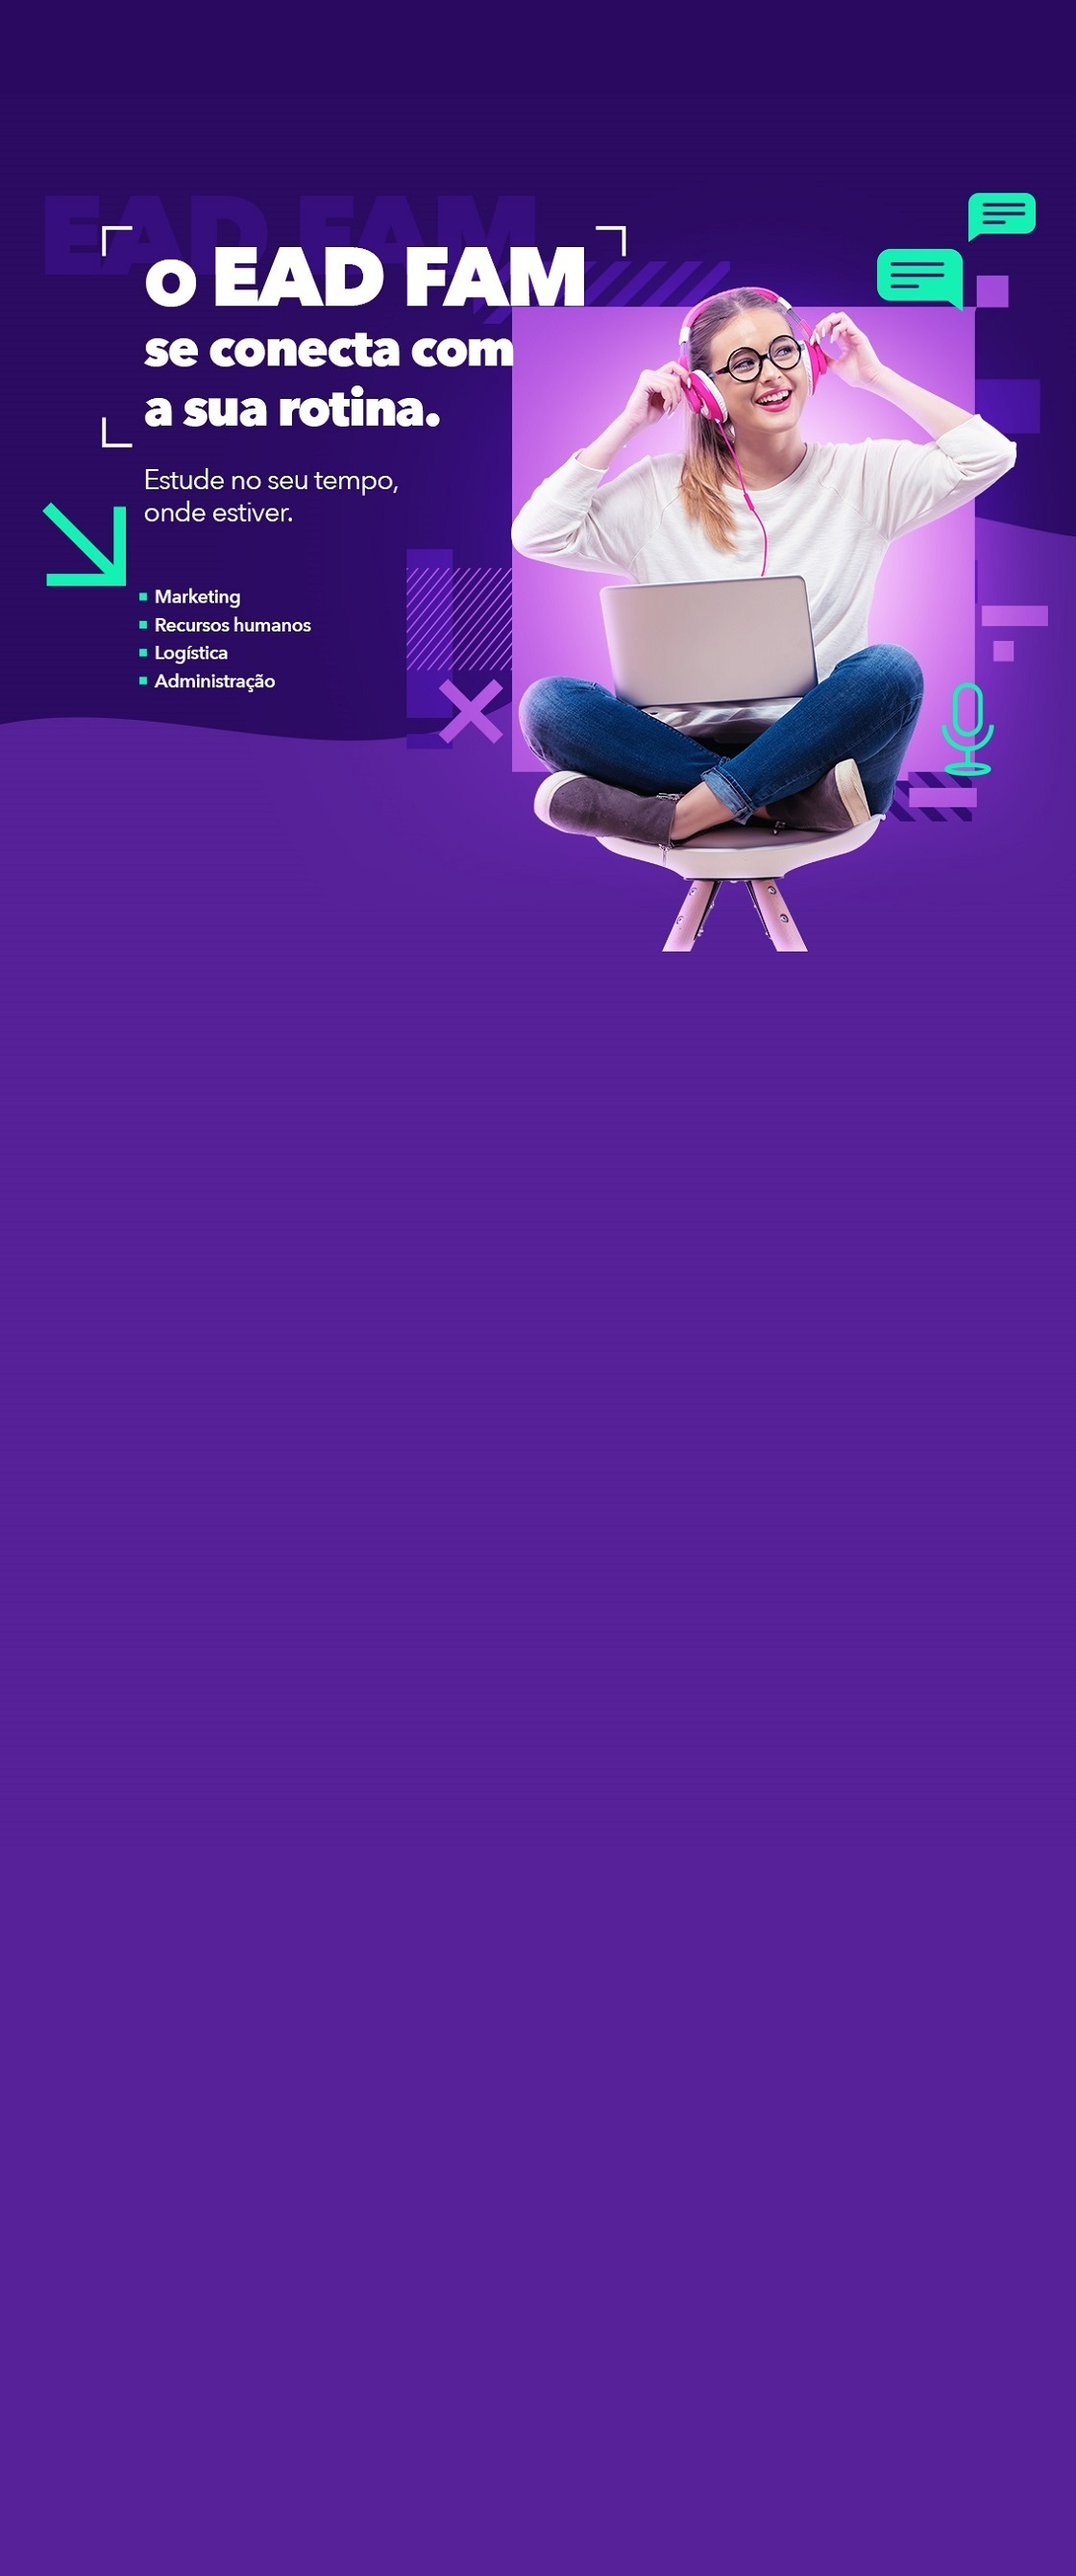
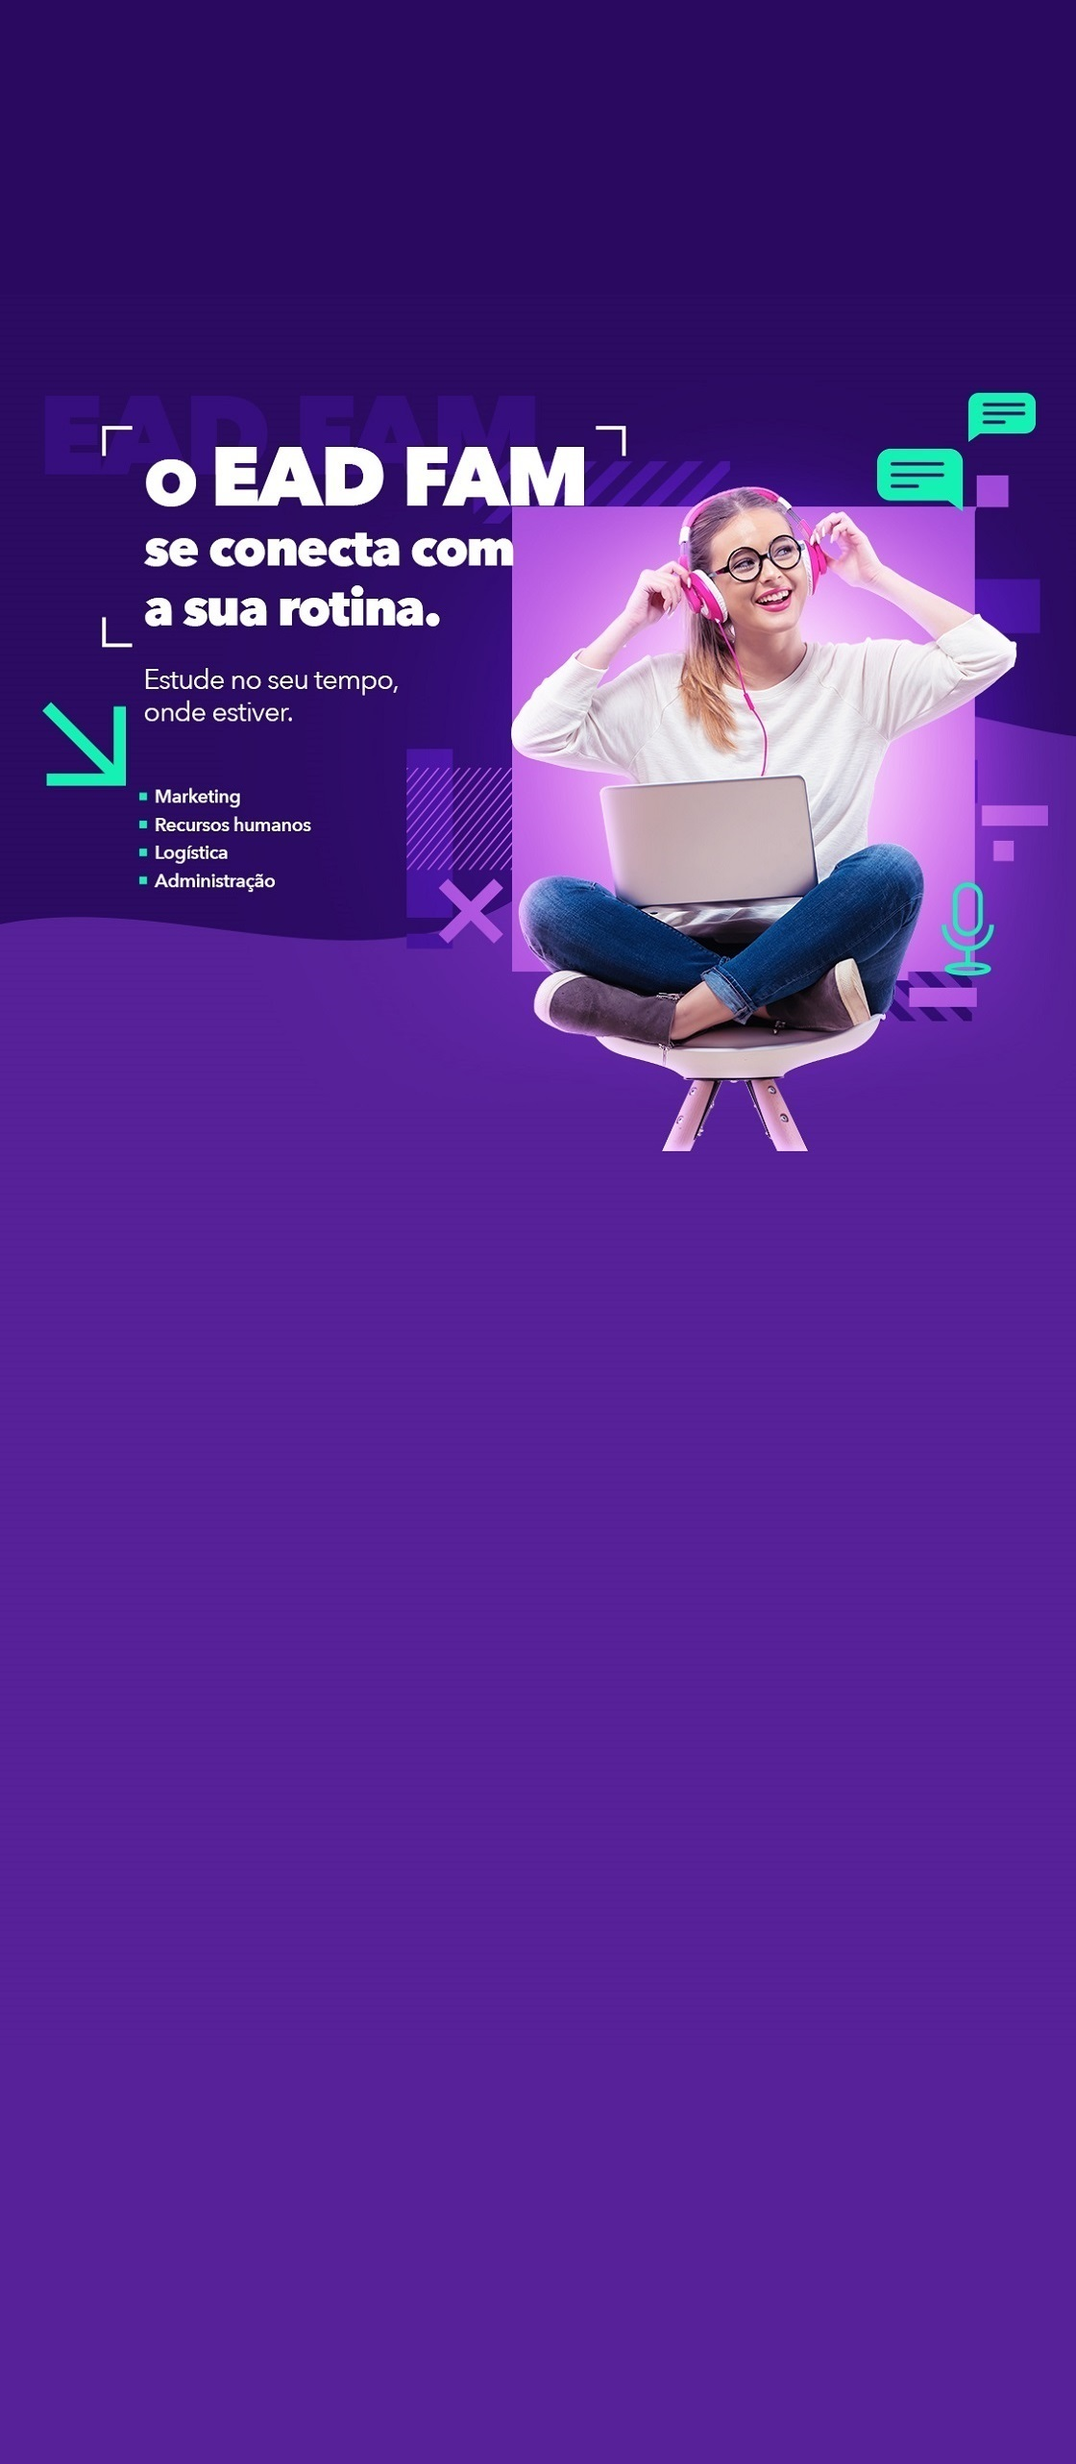
23-05-2020_16:39:57

Changed region(s): [[0.0, 0.0624, 1.0, 0.468]]

diff --git a/ambiente_conversao/fam-ead-2020.2/assets/css/update.css b/ambiente_conversao/fam-ead-2020.2/assets/css/update.css
@@ -65,20 +65,18 @@
         background-image: url("../images/mobile-institucional-background.jpg");}
     
     .coluna {
+        z-index: 999;
         display: block;
         position: relative;
         margin: 0 auto;
         top: -50px !important;
         margin-top: 0px !important;
-        transform: scale(1);
         left: 0;
     }
     .acompanhar {
-        margin-top: 450px;
-        transform: scale(0.8);
+        margin-top: 350px;
     }
     .finaliza {
         margin-top: 600px !important;
-        transform: scale(0.8);
     }
 }
